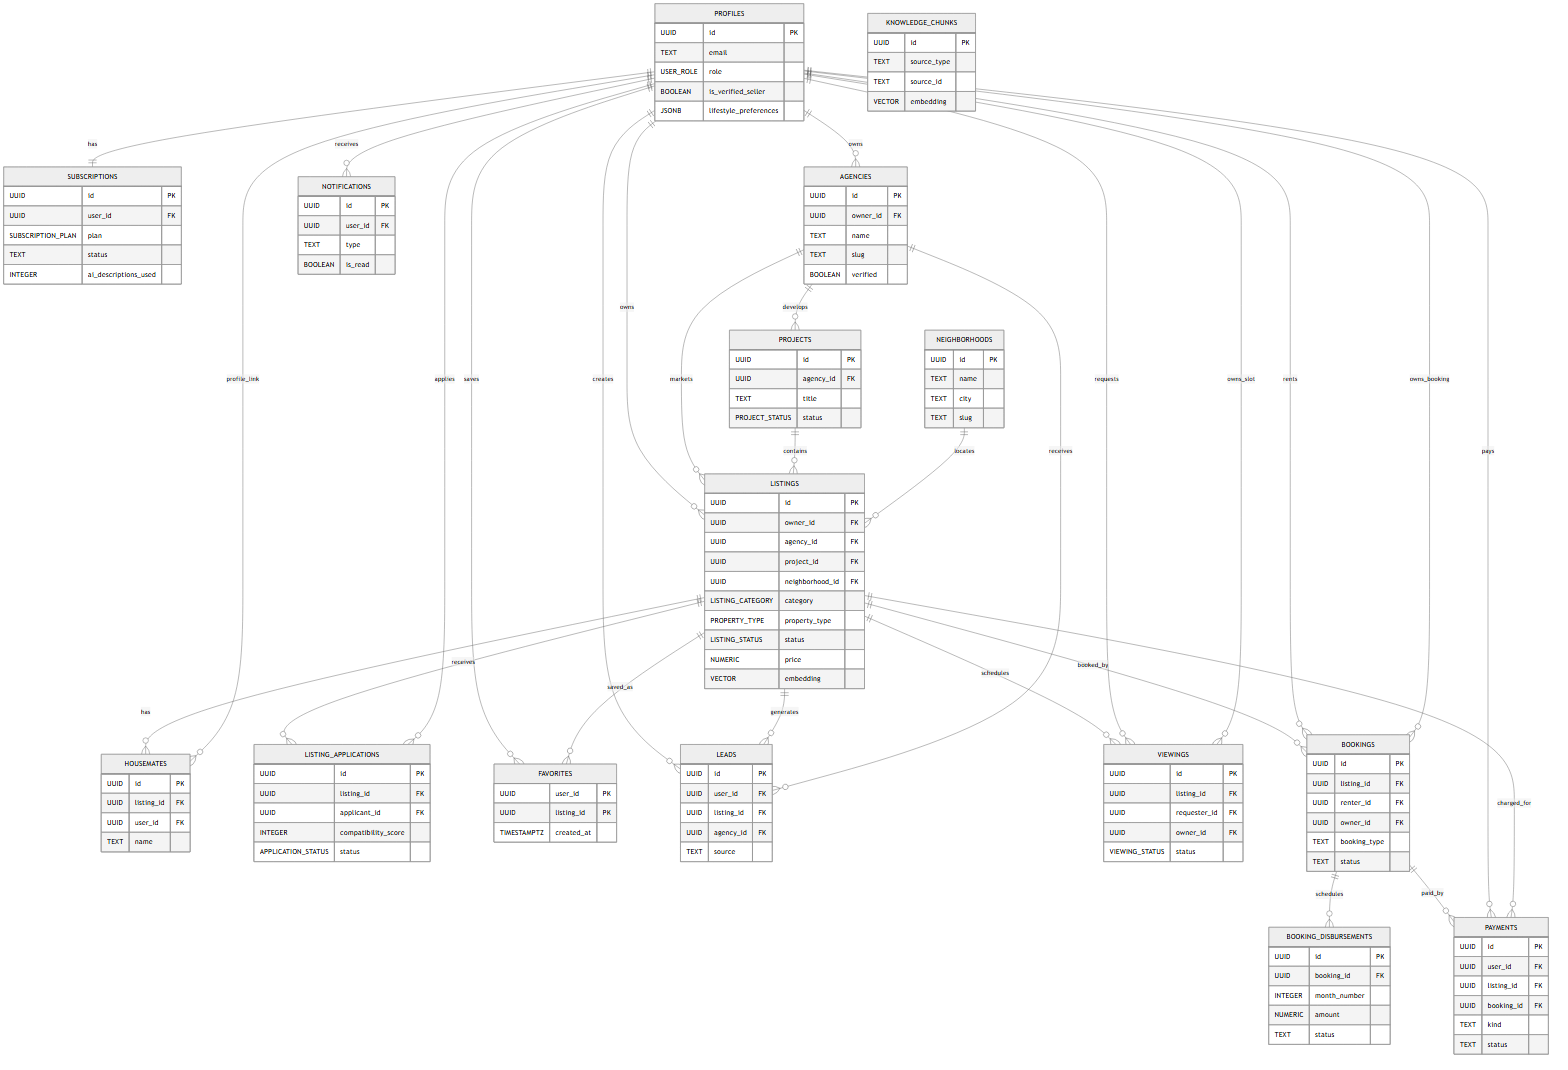
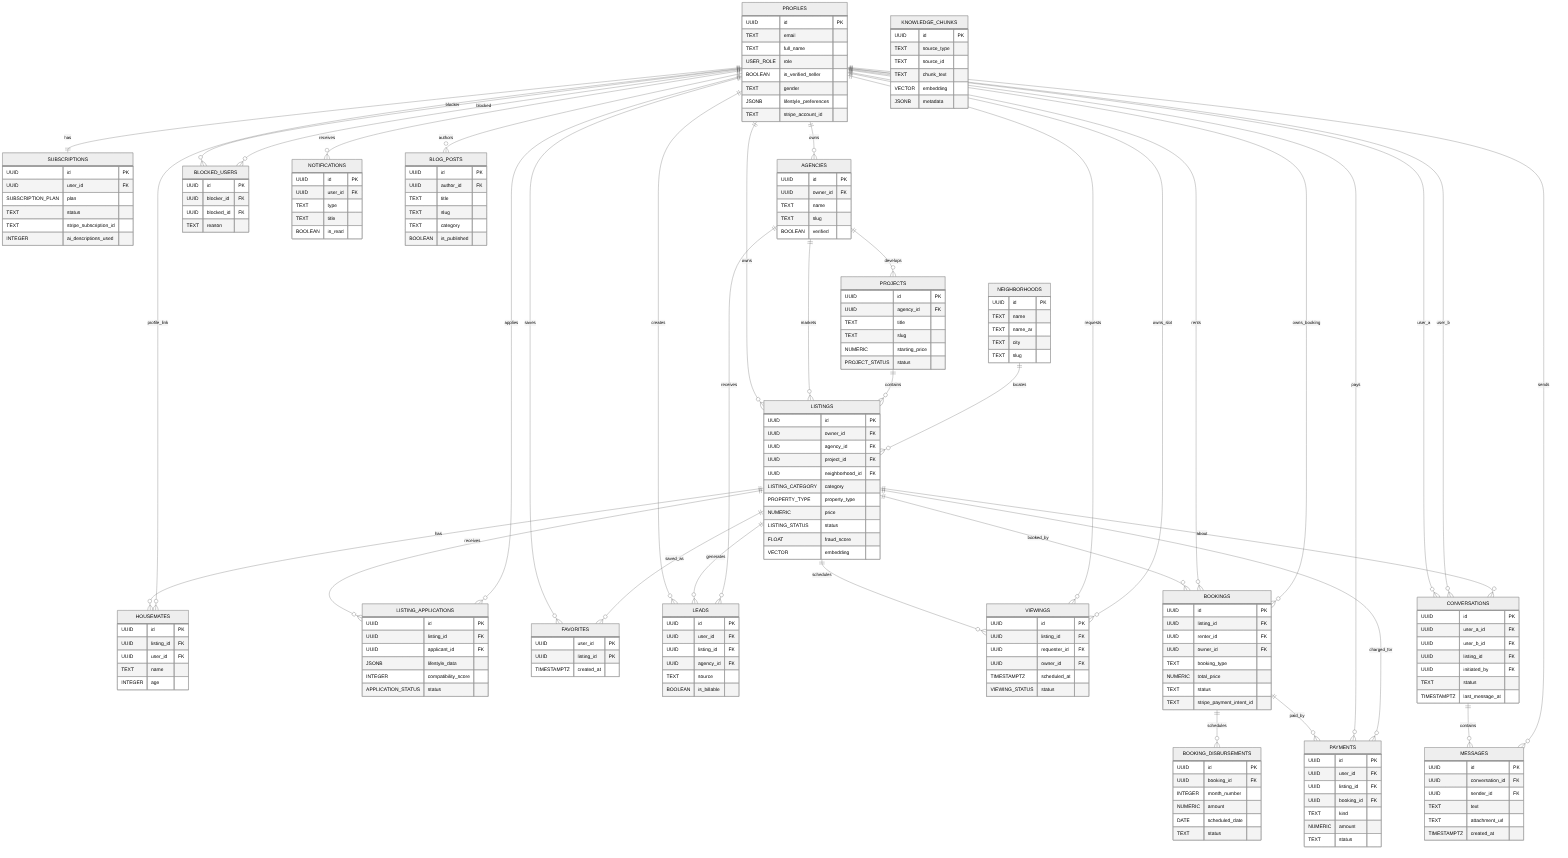
docs: complete ERD with all 20 tables and fix generator
The generated ERD (erd.v2.mmd/png) only showed 16 of the 20 tables that
actually exist in the schema and that erd_mapping.v2.md documents. It was
missing conversations, messages, blocked_users, and blog_posts.

- Regenerate erd.v2.mmd with all 20 entities, key attributes (PK/FK), and
  relationships; re-render erd.v2.png (docs/diagrams + report_build copies).
- Fix write_mermaid_erd in build_report.sh so the report build can no longer
  drop entities: render every parsed table (preferred order + remaining
  appended), mark FK columns, and skip references to tables outside the
  diagram (e.g. Supabase auth.users) to avoid phantom entities.
- Sync the generated docs/report_build/scripts/analyze_project.py snapshot.

diff --git a/docs/report_build/scripts/analyze_project.py b/docs/report_build/scripts/analyze_project.py
@@ -363,8 +363,12 @@ def test_summary() -> dict[str, str]:
 
 
 def write_mermaid_erd(tables: list[Table]) -> None:
-    core_order = [
+    # Preferred display order for readability. Any table parsed from the SQL
+    # migrations that is not listed here is still rendered (appended in name
+    # order), so new migrations can never silently drop entities from the ERD.
+    preferred_order = [
         "profiles",
+        "subscriptions",
         "neighborhoods",
         "agencies",
         "projects",
@@ -375,24 +379,34 @@ def write_mermaid_erd(tables: list[Table]) -> None:
         "leads",
         "viewings",
         "bookings",
+        "booking_disbursements",
         "payments",
-        "subscriptions",
+        "conversations",
+        "messages",
+        "blocked_users",
         "notifications",
+        "blog_posts",
+        "knowledge_chunks",
     ]
     table_by_name = {table.name: table for table in tables}
-    tables = [table_by_name[name] for name in core_order if name in table_by_name]
+    ordered_names = [name for name in preferred_order if name in table_by_name]
+    ordered_names += sorted(name for name in table_by_name if name not in preferred_order)
+    tables = [table_by_name[name] for name in ordered_names]
+    rendered = set(ordered_names)
     lines = ["erDiagram"]
     for table in tables:
         lines.append(f"  {table.name} {{")
         for col in table.columns[:8]:
-            marker = " PK" if col.pk else ""
+            marker = " PK" if col.pk else (" FK" if col.fk_table else "")
             type_name = re.sub(r"[^A-Za-z0-9_]", "_", col.type_name)
             lines.append(f"    {type_name} {col.name}{marker}")
         lines.append("  }")
     seen = set()
     for table in tables:
         for col in table.columns:
-            if col.fk_table and col.fk_table != table.name:
+            # Skip self references and references to tables outside the diagram
+            # (e.g. Supabase-managed auth.users) to avoid phantom entities.
+            if col.fk_table and col.fk_table != table.name and col.fk_table in rendered:
                 rel = (col.fk_table, table.name, col.name)
                 if rel in seen:
                     continue
